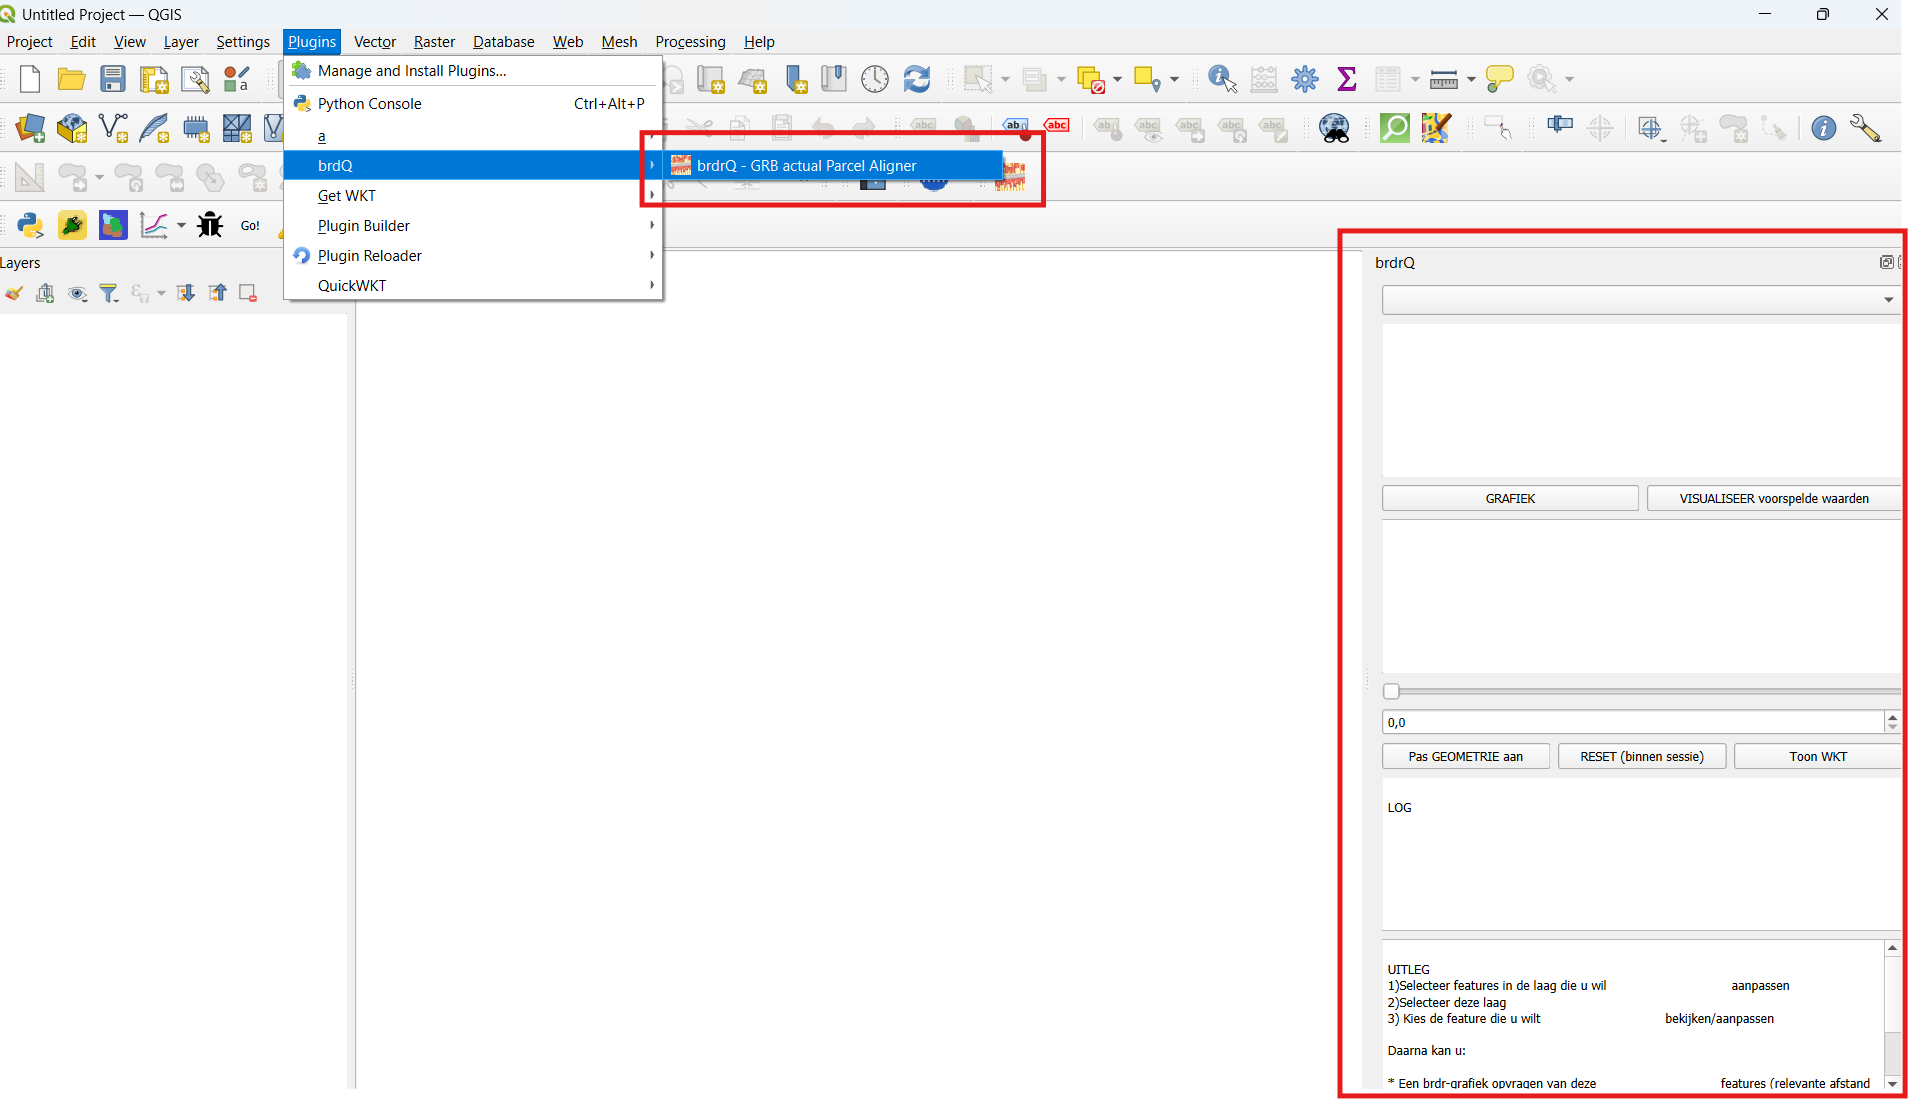
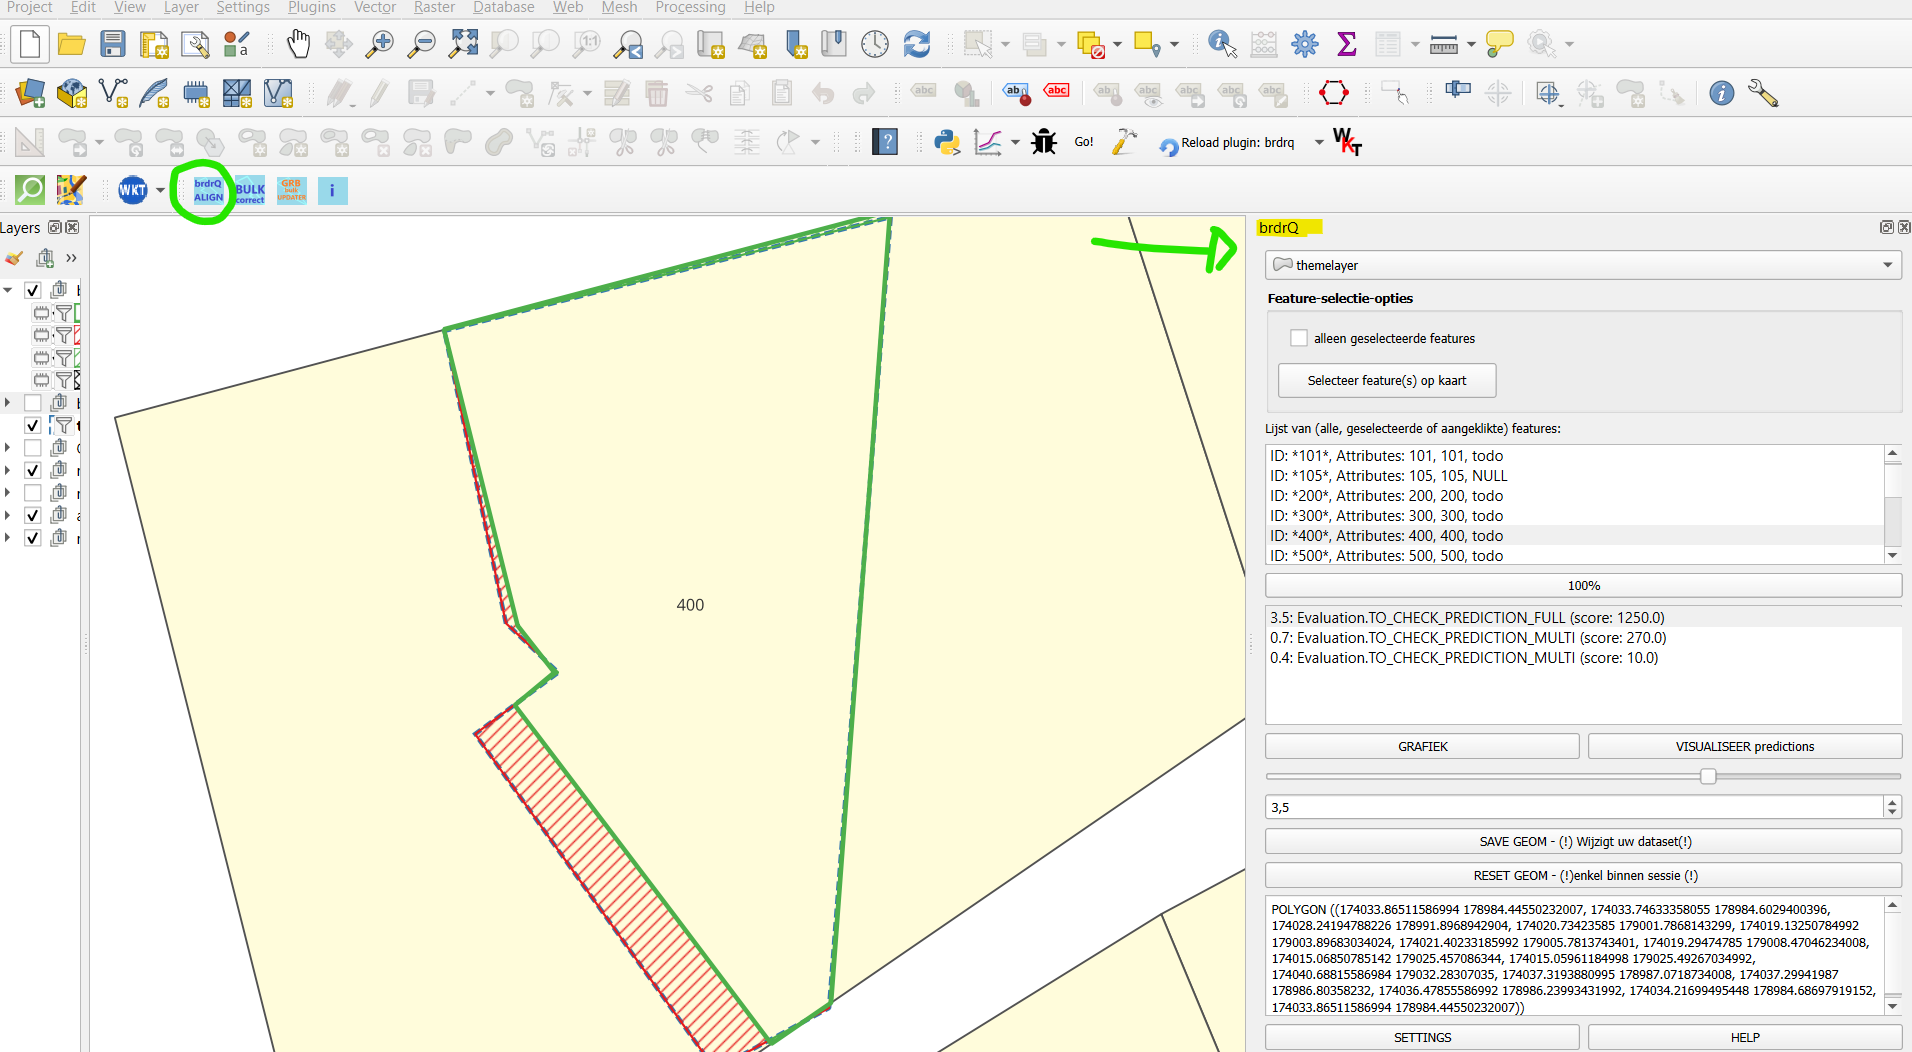
added screenshots for docs

diff --git a/README.md b/README.md
@@ -16,8 +16,9 @@ Quick links:
 
 ## Description
 
-`brdrQ` is a QGIS-processing plugin that searches for overlap relevance between thematic borders and reference borders,
+`brdrQ` is a QGIS-processing plugin that aligns features (polygons) to reference borders: It searches for overlap relevance between thematic borders and reference borders,
 and creates a resulting border based on the overlapping areas that are relevant.
+The algorithm can make (one or more) 'predictions' so the user can compare and choose the right aligned geometry.
 
 The purpose of this plugin is to automatically adjust thematic boundaries (polygons) on a reference layer (polygons)
 based on a 'relevant distance'. This parameter is used in the algorithm to determine where the boundaries are
@@ -27,7 +28,8 @@ boundaries of resulting geometries and original geometries is at most as large a
 ## Installation
 
 You can install the latest release of `brdrQ` from
-[GitHub](https://github.com/OnroerendErfgoed/brdrQ/).
+[GitHub](<https://github.com/OnroerendErfgoed/brdrQ/tree/main/dist/brdrq.zip>) by downloading this zip-distribution that can be manually installed as a plugin. 
+The detailed installation-instructions can be found below.
 
 ### Pre-requisites
 
@@ -45,9 +47,9 @@ At this moment, the QGIS plugin 'brdrQ' has to be installed based on a zip-folde
 provide it as as a plugin in the QGIS-plugin-repository)
 Follow the steps below to make the plugin available in the QGISToolbar and QGIS Processing Toolbox
 
-1. Download the zip-file from Github and save it on your local machine:
+1. Download the zip-file from the following link and save it on your local machine:
    <https://github.com/OnroerendErfgoed/brdrQ/tree/main/dist/brdrq.zip>
-
+<img src="docs/figures/installation-step-download.png" width="100%" />
 2. Open the 'Plugins'>>'Manage and install plugins...' from the topbar of QGIS
 
 <img src="docs/figures/installation-step-1.png" width="100%" />
@@ -65,12 +67,15 @@ screen will close automatically after installation.)
 
 <img src="docs/figures/installation-step-2c.png" width="50%" />
 
-3. After a successful installation, check in the 'Installed'-tab if the plugin is activated (red arrow). if not, you
+Warning: When you have already older versions of brdrQ installed, this zip-install can raise a error due to a older brdr-version-conflict. 
+Please ignore this error and restart QGIS so the newer version of 'brdr' will re-install automatically.
+
+3. After a successful installation/restart, check in the 'Installed'-tab of the QGIS Plugin Manager if the 'brdrQ'-plugin is activated (red arrow). if not, you
    have to activate the checkbox
 
 <img src="docs/figures/installation-step-2d.png" width="100%" />
 
-4. The plugin 'brdrQ' is now installed and the brdrQProvider is available in the Processing Toolbox. First open the
+4. The plugin 'brdrQ' is now installed as a toolbar and the brdrQProvider is also available in the Processing Toolbox. First open the
    processing toolbox and look for 'brdrQProvider'
 
 <img src="docs/figures/installation-step-3a.png" width="50%" />
@@ -80,7 +85,7 @@ screen will close automatically after installation.)
 
  <img src="docs/figures/installation-step-4.png" width="50%" />
 
-6. The brdrQ-plugin also provides an experimental tool to align features to GRB-actual parcels (Flanders-specific)
+6. The brdrQ-plugin also provides a Feature-by-Feature align tool that is available in the toolbar.
 
 <img src="docs/figures/installation-step-5.png" width="50%" />
 
